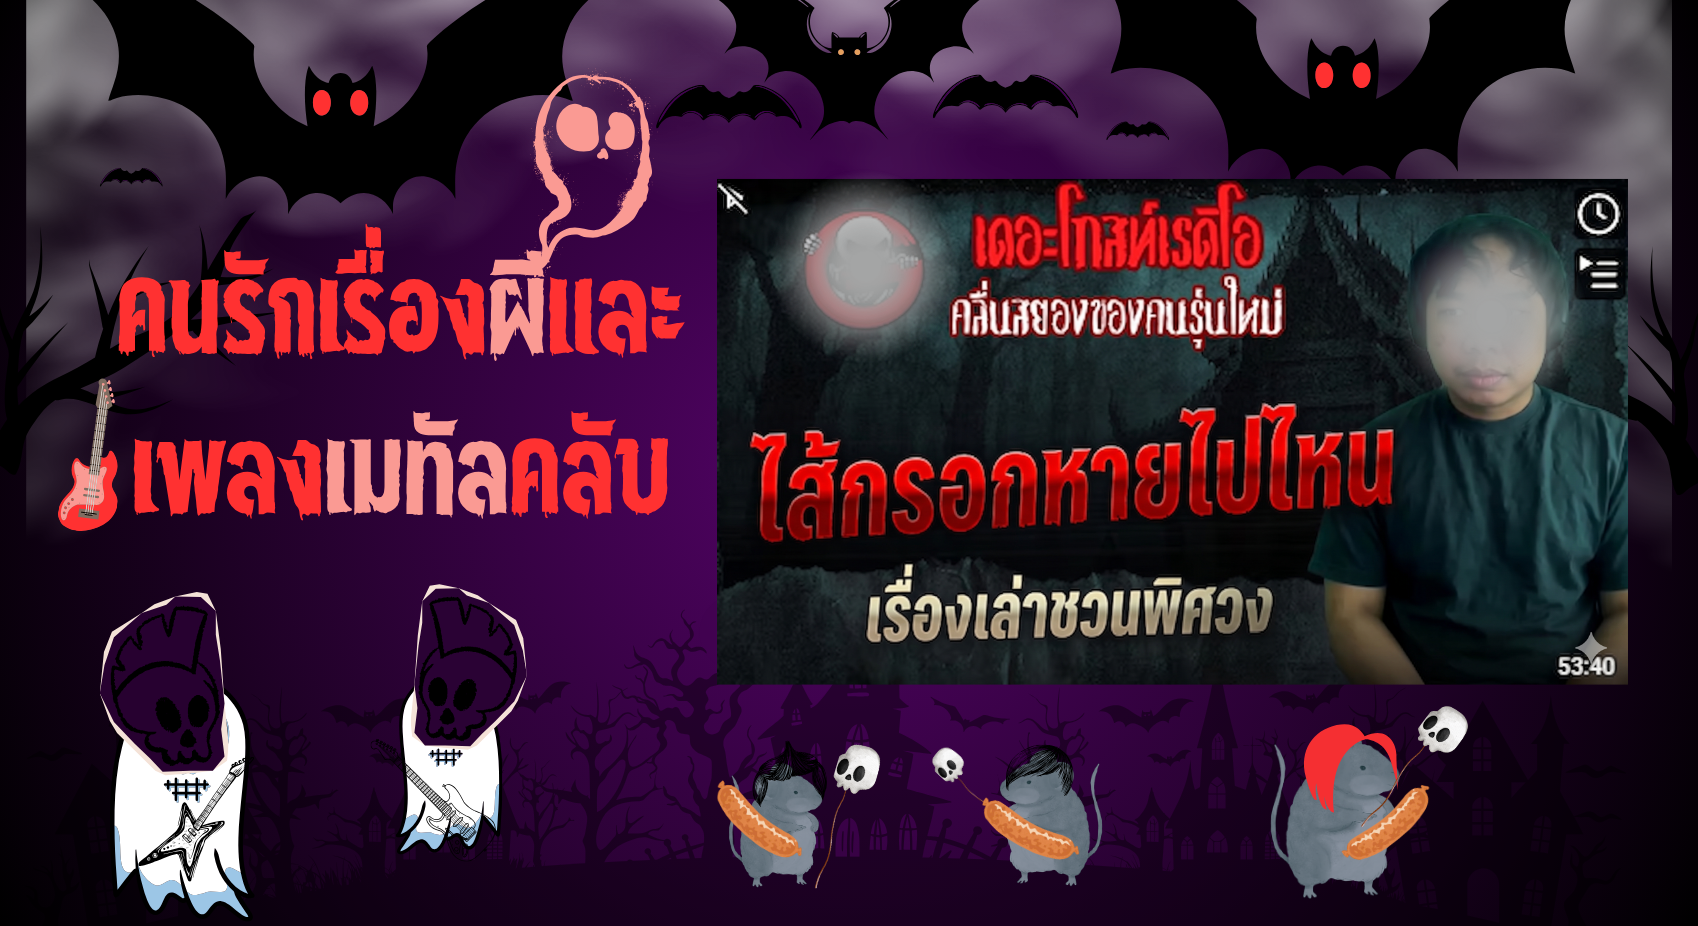
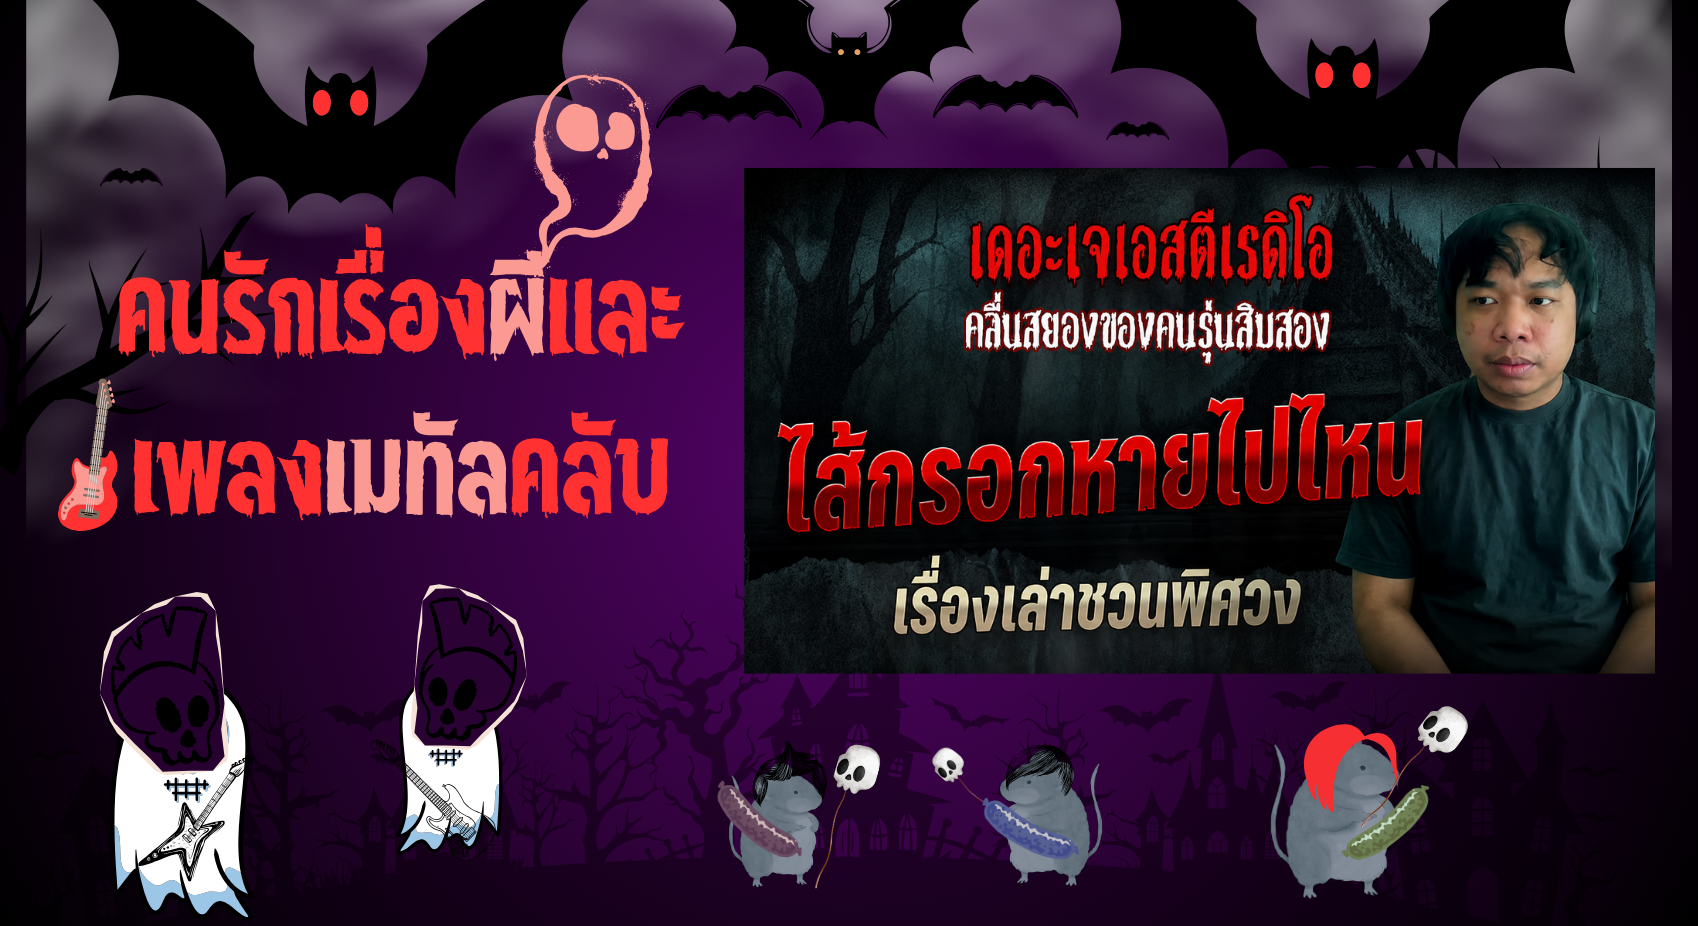
feat: add club detail page and Creative Market x Audtlist collab

diff --git a/src/pages/ClubDetailPage.jsx b/src/pages/ClubDetailPage.jsx
@@ -1,0 +1,146 @@
+import { Link, useParams } from "react-router-dom";
+import Footer from "../components/common/Footer";
+import Nav from "../components/common/Nav";
+import collabImg from "../assets/landing-page/cxa.jpg";
+import creativeMarketLogo from "../assets/landing-page/creative-market-logo.svg";
+import barImg from "../assets/landing-page/bar.png";
+import { clubs } from "../data/clubs";
+
+export default function ClubDetailPage() {
+  const { id } = useParams();
+  const club = clubs.find((c) => String(c.id) === id);
+
+  if (!club) {
+    return (
+      <div className="flex min-h-screen flex-col items-start justify-center bg-[#03030f] px-[10%] text-white">
+        <p className="mb-4 font-['Plus_Jakarta_Sans',sans-serif] text-sm font-semibold uppercase tracking-[0.12em] text-white/40">
+          404
+        </p>
+        <h1 className="mb-4 text-[44px] font-bold leading-tight">Club not found</h1>
+        <Link
+          to="/club"
+          className="rounded-full bg-[#6c63ff] px-6 py-3 font-['Plus_Jakarta_Sans',sans-serif] text-sm font-semibold text-white no-underline transition-colors hover:bg-[#4f46e5]"
+        >
+          ← Back to community
+        </Link>
+      </div>
+    );
+  }
+
+  return (
+    <div className="min-h-screen bg-[#03030f] font-['Plus_Jakarta_Sans',sans-serif] text-white">
+      <Nav />
+
+      <img
+        src={barImg}
+        alt=""
+        aria-hidden="true"
+        className="h-10 w-full object-cover"
+      />
+
+      {/* Hero */}
+      <div
+        className="relative overflow-hidden border-b border-white/8 px-[5%] py-14 md:px-[10%] md:py-20"
+        style={{ background: "linear-gradient(135deg, #0d0d2e 0%, #1a0a2e 50%, #0a0a1a 100%)" }}
+      >
+        <div
+          className="pointer-events-none absolute -left-20 top-0 h-64 w-64 rounded-full opacity-30"
+          style={{ background: club.accent, filter: "blur(80px)" }}
+        />
+
+        <img
+          src={creativeMarketLogo}
+          alt=""
+          aria-hidden="true"
+          className="pointer-events-none absolute bottom-2 left-[5%] w-72 opacity-10 md:left-[10%] md:w-118"
+        />
+
+        <img
+          src={club.img}
+          alt={club.title}
+          className="pointer-events-none absolute right-0 top-1/2 hidden h-137 w-137 -translate-y-1/2 object-contain opacity-90 md:right-[8%] md:block"
+        />
+
+        <div className="relative z-10">
+          <h1 className="mb-4 max-w-2xl font-['Plus_Jakarta_Sans',sans-serif] text-[40px] font-extrabold leading-tight tracking-tight md:text-[52px]">
+            {club.title}
+          </h1>
+          <p className="max-w-xl font-['Plus_Jakarta_Sans',sans-serif] text-[12.5px] font-medium italic leading-relaxed text-white/40">
+            — {club.tagline}
+          </p>
+        </div>
+      </div>
+
+      <img
+        src={barImg}
+        alt=""
+        aria-hidden="true"
+        className="h-10 w-full object-cover"
+      />
+
+      {/* About */}
+      <div className="mx-[5%] my-10 flex flex-col gap-4 rounded-2xl border border-white/8 bg-[#0c0c1e] p-6 md:mx-[10%] md:my-14 md:p-10">
+        <h2 className="font-['Plus_Jakarta_Sans',sans-serif] text-[20px] font-extrabold tracking-tight text-white">
+          About this club
+        </h2>
+        {club.desc.split("\n\n").map((para, j) => (
+          <p
+            key={j}
+            className="font-['Plus_Jakarta_Sans',sans-serif] text-[13.5px] font-normal leading-[1.85] text-white/45"
+          >
+            {para}
+          </p>
+        ))}
+      </div>
+
+      {/* Community collab banner — featuring cxa.jpg */}
+      <div className="mx-[5%] mb-12 md:mx-[10%] md:mb-16">
+        <div className="overflow-hidden rounded-2xl border border-white/8 bg-[#0c0c1e]">
+          <img
+            src={collabImg}
+            alt="Creative Market x Audtlist — We build and support artist community together"
+            className="w-full object-cover"
+          />
+          <div className="flex flex-col gap-2 px-6 py-8 md:px-12 md:py-10">
+            <h3 className="font-['Plus_Jakarta_Sans',sans-serif] text-[18px] font-extrabold tracking-tight text-white">
+              Built through collaboration, grown by community
+            </h3>
+            <p className="font-['Plus_Jakarta_Sans',sans-serif] text-[13.5px] font-normal leading-[1.85] text-white/45">
+              Creative Market x Audtlist is where two creative communities
+              meet — makers, crate diggers, and listeners coming together to
+              support local artists and grow the scene from the ground up.
+              This club is proof that the best things are still built by
+              people, not algorithms.
+            </p>
+          </div>
+        </div>
+      </div>
+
+      {/* CTA */}
+      <div
+        className="mx-[5%] mb-16 flex flex-col items-start gap-4 rounded-2xl border border-white/8 px-6 py-10 md:mx-[10%] md:px-12"
+        style={{ background: `linear-gradient(135deg, ${club.accent}1a 0%, transparent 70%)` }}
+      >
+        <h3 className="font-['Plus_Jakarta_Sans',sans-serif] text-[20px] font-extrabold tracking-tight text-white">
+          Ready to explore the Creative Market x Audtlist collab?
+        </h3>
+        <p className="max-w-lg font-['Plus_Jakarta_Sans',sans-serif] text-[13.5px] leading-[1.8] text-white/45">
+          Step into the world where sound meets craft — discover limited
+          drops, artist collaborations, and exclusive pieces from Creative
+          Market, made in the spirit of DJ Joe Buddha Club.
+        </p>
+        <a
+          href="https://creative-market-front-end-sprint-2-mu.vercel.app/"
+          target="_blank"
+          rel="noopener noreferrer"
+          className="mt-1 w-fit rounded-full px-6 py-2.5 font-['Plus_Jakarta_Sans',sans-serif] text-[13px] font-bold tracking-wide text-white no-underline transition-transform hover:scale-105"
+          style={{ background: club.accent }}
+        >
+          Visit Creative Market →
+        </a>
+      </div>
+
+      <Footer />
+    </div>
+  );
+}

diff --git a/src/pages/ClubPage.jsx b/src/pages/ClubPage.jsx
@@ -2,49 +2,7 @@ import { Link } from "react-router-dom";
 import Footer from "../components/common/Footer";
 import Nav from "../components/common/Nav";
 import headclub from "../assets/landing-page/headclub.png";
-import club1 from "../assets/landing-page/clubdjjoe.png";
-import club2 from "../assets/landing-page/clubsn2.jpg";
-import club3 from "../assets/landing-page/clubg3.png";
-import club4 from "../assets/landing-page/clubptri.png";
-
-const clubs = [
-  {
-    id: 1,
-    img: club1,
-    tag: "Audtlist Club",
-    title: "DJ Joe Buddha Club",
-    desc: "A club built for people who live for underground sounds, dusty samples, distorted basslines, and music that exists far away from the mainstream. This is a space for crate diggers, vinyl collectors, beat lovers, and listeners who believe the best music is often the rawest and most imperfect.\n\nInside the club, members share hidden gems, experimental hip-hop, rare mixes, underground electronic sounds, and tracks filled with texture, attitude, and late-night energy. Every song here feels like discovering something secret music made not for charts, but for people who truly listen.",
-    tagline: "No trends. No algorithms. Just pure sound and real music culture.",
-    accent: "#fc3c44",
-  },
-  {
-    id: 2,
-    img: club2,
-    tag: "Audtlist Club",
-    title: "Snake Refill Club T-POP",
-    desc: "A colorful little club for people who fall in love with catchy melodies, dreamy synths, emotional pop lyrics, and the chaos of modern indie pop culture. Built for listeners who sing heartbreak songs in their bedrooms, replay the same song all night, and find comfort inside glittery sounds and dramatic feelings.\n\nMembers share indie pop, bedroom pop, hyperpop, soft-girl anthems, and addictive tracks that feel sweet, emotional, playful, and impossible not to dance to. Every playlist inside this club carries a mix of vulnerability, fun, and late-night energy that turns sadness into something beautiful.",
-    tagline: "For people with loud headphones, soft hearts, and too many favorite songs.",
-    accent: "#9d6dff",
-  },
-  {
-    id: 3,
-    img: club3,
-    tag: "Audtlist Club",
-    title: "Ghost Stories & Metal Music Club",
-    desc: "A late-night club for people who enjoy ghost stories, strange internet mysteries, unsettling ambience, and music that sounds beautiful in the dark. This space is made for listeners who feel strangely comforted by silence, static noise, eerie melodies, and the feeling of walking alone at midnight.\n\nInside the club, members share horror-inspired playlists, dark ambient music, haunted soundscapes, lo-fi for sleepless nights, and experimental tracks that blur the line between fear and comfort. Every sound here feels cinematic, emotional, and slightly cursed in the best possible way.",
-    tagline: "Turn the lights off, put your headphones on, and let the music haunt you for a while.",
-    accent: "#00d9ff",
-  },
-  {
-    id: 4,
-    img: club4,
-    tag: "Audtlist Club",
-    title: "Urban Luk Thung & Molam Club",
-    desc: "A club for city people who still carry the sound of home inside their headphones. Built for listeners who grew up with luk thung on the radio, molam at temple fairs, long bus rides back to their hometown, and songs that somehow understand real life better than anyone else.\n\nMembers share classic luk thung hits, modern indie molam, emotional ballads, isaan grooves, and warm nostalgic tracks filled with storytelling, heartbreak, celebration, and hometown spirit. From traditional khaen melodies to modern folk-inspired sounds, this club is where old memories and new generations meet through music.",
-    tagline: "No matter where you come from, if your heart still moves with the rhythm of luk thung and molam — you belong here.",
-    accent: "#ffd700",
-  },
-];
+import { clubs } from "../data/clubs";
 
 export default function ClubPage() {
   return (
@@ -124,12 +82,22 @@ export default function ClubPage() {
                   — {club.tagline}
                 </p>
 
-                <span
-                  className="mt-1 w-fit cursor-default rounded-full px-6 py-2.5 font-['Plus_Jakarta_Sans',sans-serif] text-[13px] font-bold tracking-wide text-white cursor-pointer"
-                  style={{ background: "#fc3c44" }}
-                >
-                  Explore club →
-                </span>
+                {club.id === 1 ? (
+                  <Link
+                    to={`/club/${club.id}`}
+                    className="mt-1 w-fit rounded-full px-6 py-2.5 font-['Plus_Jakarta_Sans',sans-serif] text-[13px] font-bold tracking-wide text-white no-underline transition-transform hover:scale-105"
+                    style={{ background: "#fc3c44" }}
+                  >
+                    Explore club →
+                  </Link>
+                ) : (
+                  <span
+                    className="mt-1 w-fit cursor-default rounded-full px-6 py-2.5 font-['Plus_Jakarta_Sans',sans-serif] text-[13px] font-bold tracking-wide text-white"
+                    style={{ background: "#fc3c44" }}
+                  >
+                    Explore club →
+                  </span>
+                )}
               </div>
             </div>
           );

diff --git a/src/data/clubs.js b/src/data/clubs.js
@@ -1,0 +1,43 @@
+import club1 from "../assets/landing-page/clubdjjoe.png";
+import club2 from "../assets/landing-page/clubsn2.jpg";
+import club3 from "../assets/landing-page/clubg2.png";
+import club4 from "../assets/landing-page/clubptri.png";
+
+export const clubs = [
+  {
+    id: 1,
+    img: club1,
+    tag: "Audtlist Club",
+    title: "DJ Joe Buddha Club Creative Market x Audtlist",
+    desc: "Creative Market x Audtlist is more than a collaboration — it's a meeting point between sound and craft. This club brings together two communities who live for the same thing: making something real. DJ Joe Buddha Club is where that spirit lives, built for people who chase underground sounds, dusty samples, distorted basslines, and music that exists far away from the mainstream.\n\nInside the club, members share hidden gems, experimental hip-hop, rare mixes, underground electronic sounds, and tracks filled with texture, attitude, and late-night energy — the same raw, hands-on energy that drives Creative Market's community of makers. Every song here feels like discovering something secret: music and art made not for charts, but for people who truly create and truly listen.",
+    tagline: "Where underground sound meets independent creativity. No trends. No algorithms. Just pure culture, made by the community.",
+    accent: "#fc3c44",
+  },
+  {
+    id: 2,
+    img: club2,
+    tag: "Audtlist Club",
+    title: "Snake Refill Club T-POP",
+    desc: "A colorful little club for people who fall in love with catchy melodies, dreamy synths, emotional pop lyrics, and the chaos of modern indie pop culture. Built for listeners who sing heartbreak songs in their bedrooms, replay the same song all night, and find comfort inside glittery sounds and dramatic feelings.\n\nMembers share indie pop, bedroom pop, hyperpop, soft-girl anthems, and addictive tracks that feel sweet, emotional, playful, and impossible not to dance to. Every playlist inside this club carries a mix of vulnerability, fun, and late-night energy that turns sadness into something beautiful.",
+    tagline: "For people with loud headphones, soft hearts, and too many favorite songs.",
+    accent: "#9d6dff",
+  },
+  {
+    id: 3,
+    img: club3,
+    tag: "Audtlist Club",
+    title: "Ghost Stories & Metal Music Club",
+    desc: "A late-night club for people who enjoy ghost stories, strange internet mysteries, unsettling ambience, and music that sounds beautiful in the dark. This space is made for listeners who feel strangely comforted by silence, static noise, eerie melodies, and the feeling of walking alone at midnight.\n\nInside the club, members share horror-inspired playlists, dark ambient music, haunted soundscapes, lo-fi for sleepless nights, and experimental tracks that blur the line between fear and comfort. Every sound here feels cinematic, emotional, and slightly cursed in the best possible way.",
+    tagline: "Turn the lights off, put your headphones on, and let the music haunt you for a while.",
+    accent: "#00d9ff",
+  },
+  {
+    id: 4,
+    img: club4,
+    tag: "Audtlist Club",
+    title: "Urban Luk Thung & Molam Club",
+    desc: "A club for city people who still carry the sound of home inside their headphones. Built for listeners who grew up with luk thung on the radio, molam at temple fairs, long bus rides back to their hometown, and songs that somehow understand real life better than anyone else.\n\nMembers share classic luk thung hits, modern indie molam, emotional ballads, isaan grooves, and warm nostalgic tracks filled with storytelling, heartbreak, celebration, and hometown spirit. From traditional khaen melodies to modern folk-inspired sounds, this club is where old memories and new generations meet through music.",
+    tagline: "No matter where you come from, if your heart still moves with the rhythm of luk thung and molam — you belong here.",
+    accent: "#ffd700",
+  },
+];

diff --git a/src/App.jsx b/src/App.jsx
@@ -30,6 +30,7 @@ import OrderConfirmedPage from "./shop/pages/OrderConfirmedPage";
 import ProfileSetting from "./pages/profilesetting";
 import GiftCardsPage from "./pages/GiftCardsPage";
 import ClubPage from "./pages/ClubPage";
+import ClubDetailPage from "./pages/ClubDetailPage";
 
 function ScrollToTop() {
   const { pathname } = useLocation();
@@ -81,6 +82,7 @@ export default function App() {
           <Route path="/about" element={<AboutPage />} />
           <Route path="/gift-cards" element={<GiftCardsPage />} />
           <Route path="/club" element={<ClubPage />} />
+          <Route path="/club/:id" element={<ClubDetailPage />} />
           <Route path="/article1" element={<Article1Page />} />
           <Route path="/article2" element={<Article2Page />} />
           <Route path="/article3" element={<Article3Page />} />